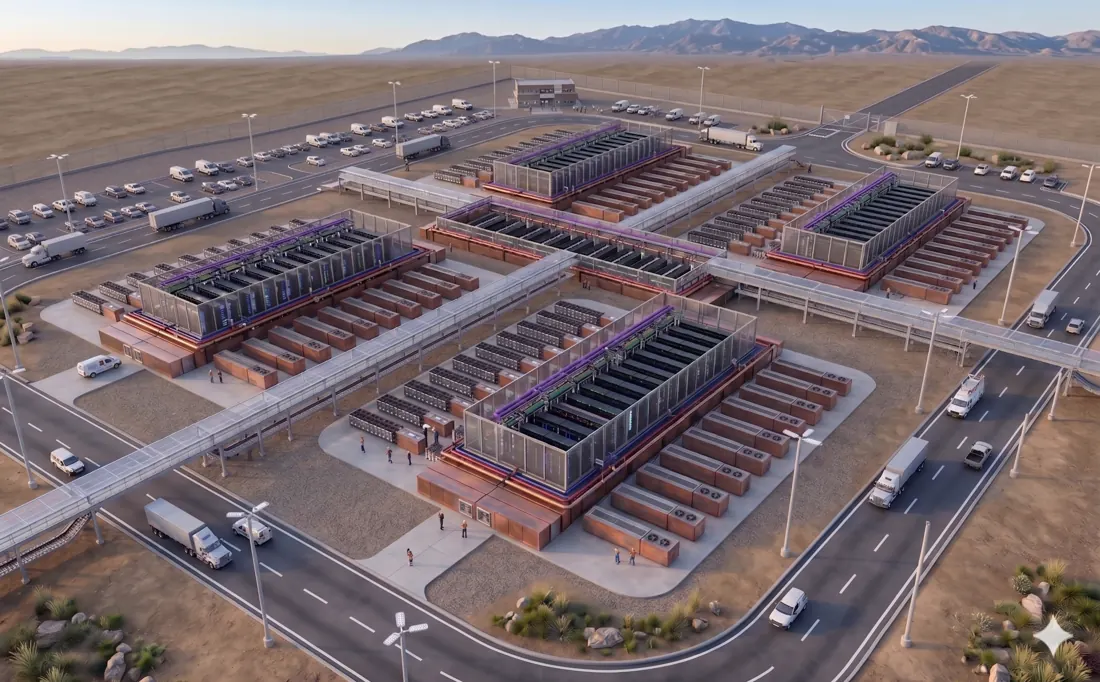
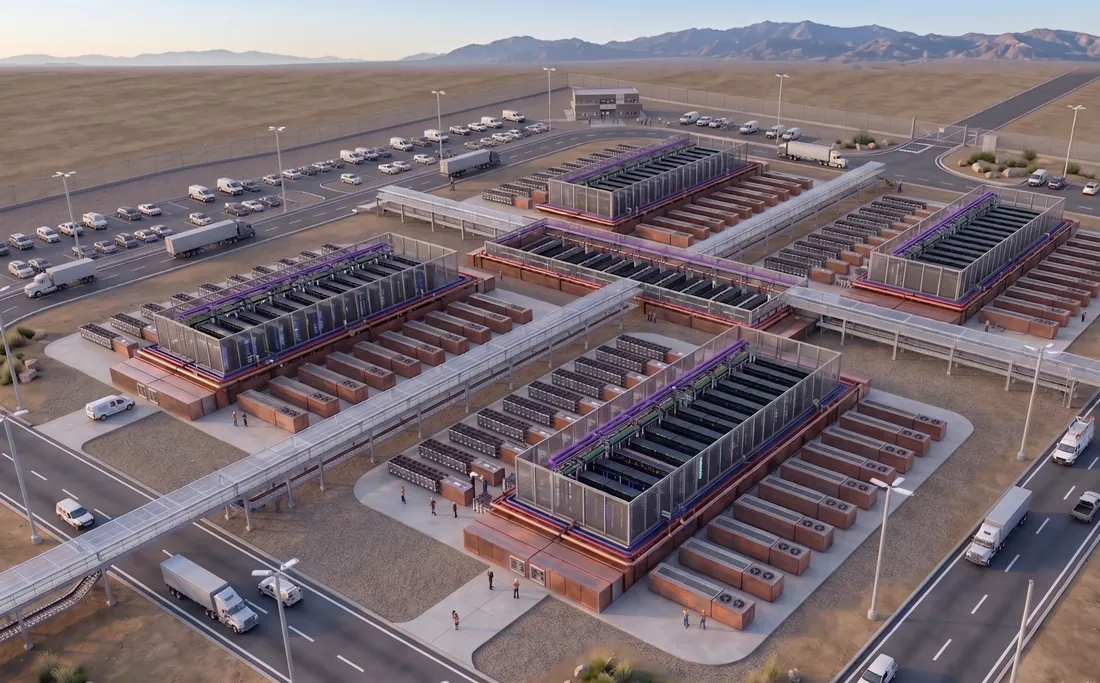
Add files via upload

diff --git a/index.html b/index.html
@@ -4,6 +4,10 @@
 <meta charset="utf-8">
 <meta name="robots" content="noindex, nofollow">
 <meta name="viewport" content="width=device-width, initial-scale=1, viewport-fit=cover">
+<link rel="icon" href="favicon.ico" sizes="any">
+<link rel="icon" type="image/png" sizes="32x32" href="img/favicon-32.png">
+<link rel="apple-touch-icon" href="img/apple-touch-icon.png">
+<meta name="theme-color" content="#07060d">
 <title>Foxconn AI Factory</title>
 <link rel="preconnect" href="https://fonts.googleapis.com">
 <link rel="preconnect" href="https://fonts.gstatic.com" crossorigin>
@@ -32,7 +36,7 @@ img{max-width:100%}
 [hidden]{display:none!important}
 html{scroll-behavior:smooth;scroll-padding-top:110px}
 html{padding:env(safe-area-inset-top,0px) 0 env(safe-area-inset-bottom,0px)}
-body{margin:0;background:var(--bg);color:var(--fg);font-family:var(--f-body);font-size:16px;line-height:1.55;font-weight:400;-webkit-font-smoothing:antialiased;overflow-x:hidden}
+body{margin:0;background:var(--bg);color:var(--fg);font-family:var(--f-body);font-size:18px;line-height:1.55;font-weight:400;-webkit-font-smoothing:antialiased;overflow-x:hidden}
 body::before{content:"";position:fixed;inset:0 0 auto;height:env(safe-area-inset-top,0px);z-index:30;background:var(--bg)}
 a{color:inherit}
 .wrap{max-width:1200px;margin:0 auto;padding-left:max(16px,env(safe-area-inset-left,0px));padding-right:max(16px,env(safe-area-inset-right,0px))}
@@ -61,35 +65,35 @@ p{margin:0}
 .hero .wrap{position:relative}
 .eyebrow{font-size:12px;letter-spacing:.2em;text-transform:uppercase;color:var(--cyan)}
 .hero h1{font-family:var(--f-display);font-weight:400;font-size:clamp(30px,8.6vw,52px);line-height:1.12;letter-spacing:.01em;margin-top:4px;text-shadow:0 0 36px rgba(161,131,231,.35)}
-.hero .lede{color:var(--muted);font-size:17px;margin-top:16px;max-width:34em}
+.hero .lede{color:var(--muted);font-size:19px;margin-top:16px;max-width:34em}
 .hero-cta{display:flex;flex-wrap:wrap;gap:10px;margin-top:24px}
 .proof{display:grid;grid-template-columns:1fr 1fr;gap:1px;margin-top:32px;background:var(--line);border:1px solid var(--line);border-radius:var(--r);overflow:hidden}
 .proof div{background:rgba(16,14,28,.92);padding:16px 14px;min-width:0}
 .proof b{display:block;font-family:var(--f-display);font-weight:400;font-size:22px;line-height:1.15;font-variant-numeric:tabular-nums}
-.proof span{display:block;color:var(--muted);font-size:13px;line-height:1.35;margin-top:6px}
+.proof span{display:block;color:var(--muted);font-size:15px;line-height:1.35;margin-top:6px}
 .proof .wide{grid-column:1/-1;display:flex;align-items:center;gap:12px}
 .proof .wide b{font-size:15px;letter-spacing:.04em}
 .nv-logo{flex:none;display:block;height:20px;width:auto}
 .proof .wide{padding-block:18px}
 .hero-img{margin:22px 0 0;border-radius:var(--r);overflow:hidden;border:1px solid var(--line);position:relative}
 .hero-img img{display:block;width:100%;height:auto}
-.hero-img figcaption{position:absolute;left:0;right:0;bottom:0;padding:24px 14px 10px;font-size:12px;color:var(--fg);background:linear-gradient(transparent,rgba(7,6,13,.9))}
+.hero-img figcaption{position:absolute;left:0;right:0;bottom:0;padding:24px 14px 10px;font-size:13px;color:var(--fg);background:linear-gradient(transparent,rgba(7,6,13,.9))}
 
 /* Sections */
 section.ch{padding-block:56px 8px}
 .ch-head{display:grid;gap:10px;margin-bottom:24px}
-.ch-head .k{font-size:12px;letter-spacing:.2em;text-transform:uppercase;color:var(--lav)}
+.ch-head .k{font-size:13px;letter-spacing:.2em;text-transform:uppercase;color:var(--lav)}
 .ch-head h2{font-family:var(--f-display);font-weight:400;font-size:clamp(22px,6vw,32px);line-height:1.2}
 .ch-head p{color:var(--muted)}
 
 /* Why */
 .why{display:grid;gap:12px}
 .why article{background:var(--surface);border:1px solid var(--line);border-radius:var(--r);padding:18px;display:grid;gap:10px}
-.why .pain{font-size:12px;letter-spacing:.12em;text-transform:uppercase;color:var(--muted)}
+.why .pain{font-size:13px;letter-spacing:.12em;text-transform:uppercase;color:var(--muted)}
 .why .pain s{text-decoration:none;color:var(--fg)}
 .why h3{font-size:20px;font-weight:600;display:flex;align-items:center;gap:10px}
 .why h3 i{width:8px;height:8px;border-radius:50%;background:var(--cyan);box-shadow:0 0 12px var(--cyan);flex:none}
-.why p{color:var(--muted);font-size:15px}
+.why p{color:var(--muted);font-size:17px}
 
 /* Process */
 .steps{list-style:none;margin:0;padding:0;position:relative}
@@ -99,27 +103,27 @@ section.ch{padding-block:56px 8px}
 .steps details{background:var(--surface);border:1px solid var(--line);border-radius:var(--r)}
 .steps summary{list-style:none;cursor:pointer;padding:14px 16px;display:flex;justify-content:space-between;align-items:center;gap:10px}
 .steps summary::-webkit-details-marker{display:none}
-.steps summary b{font-weight:600;font-size:17px}
-.steps summary span{display:block;color:var(--muted);font-size:13px}
+.steps summary b{font-weight:600;font-size:18px}
+.steps summary span{display:block;color:var(--muted);font-size:15px}
 .steps summary::after{content:"+";font:300 22px/1 var(--f-body);color:var(--lav);transition:transform .2s}
 .steps details[open] summary::after{transform:rotate(45deg)}
 .steps ul{margin:0;padding:0 16px 14px 16px;list-style:none;display:flex;flex-direction:column;align-items:flex-start;gap:6px}
-.chip{display:inline-flex;align-items:center;justify-content:center;text-align:left;line-height:1.3;font-size:13px;padding:5px 10px;border-radius:14px;background:var(--surface-2);border:1px solid var(--line);color:var(--fg)}
+.chip{display:inline-flex;align-items:center;justify-content:center;text-align:left;line-height:1.3;font-size:15px;padding:5px 11px;border-radius:15px;background:var(--surface-2);border:1px solid var(--line);color:var(--fg)}
 
 /* Build types */
 .chart{background:var(--surface);border:1px solid var(--line);border-radius:var(--r);padding:16px 14px 10px}
-.chart h3{font-size:14px;font-weight:500;color:var(--muted);margin-bottom:6px}
+.chart h3{font-size:16px;font-weight:500;color:var(--muted);margin-bottom:6px}
 /* Lead-time chart: 0–48 months maps to 0–100% of each track */
 .ltc{display:grid;padding:4px 14px 2px 0}
 .ltc-row{display:grid;grid-template-columns:80px minmax(0,1fr);align-items:center}
-.ltc-lbl{font-size:13px;font-weight:500;color:var(--fg)}
+.ltc-lbl{font-size:15px;font-weight:500;color:var(--fg)}
 .ltc-track{position:relative;height:36px;background:linear-gradient(90deg,var(--line) 1px,transparent 1px) 0 0/25% 100% repeat-x;box-shadow:inset -1px 0 0 var(--line)}
 .ltc-bar{position:absolute;top:8px;bottom:8px;left:calc(var(--s) / 48 * 100%);width:calc((var(--e) - var(--s)) / 48 * 100%);border-radius:10px;background:var(--grad)}
 .ltc-bar.slow{background:var(--muted);opacity:.55}
-.ltc-val{position:absolute;top:50%;transform:translateY(-50%);left:calc(var(--e) / 48 * 100% + 8px);font-size:12px;font-weight:600;color:var(--fg);white-space:nowrap;font-variant-numeric:tabular-nums}
+.ltc-val{position:absolute;top:50%;transform:translateY(-50%);left:calc(var(--e) / 48 * 100% + 8px);font-size:14px;font-weight:600;color:var(--fg);white-space:nowrap;font-variant-numeric:tabular-nums}
 .ltc-val.before{left:auto;right:calc(100% - var(--s) / 48 * 100% + 8px)}
 .ltc-axis .ltc-track{height:22px;background:none;box-shadow:none}
-.ltc-axis .ltc-track span{position:absolute;top:4px;left:calc(var(--t) / 48 * 100%);transform:translateX(-50%);font-size:11px;color:var(--muted);font-variant-numeric:tabular-nums}
+.ltc-axis .ltc-track span{position:absolute;top:4px;left:calc(var(--t) / 48 * 100%);transform:translateX(-50%);font-size:13px;color:var(--muted);font-variant-numeric:tabular-nums}
 .tabs{position:relative;display:grid;grid-template-columns:repeat(3,1fr);gap:0;margin-top:16px;background:#05040a;border:1px solid var(--line);border-radius:999px;padding:4px;box-shadow:inset 0 2px 6px rgba(0,0,0,.7)}
 .tab-ind{position:absolute;top:4px;bottom:4px;left:4px;width:calc((100% - 8px) / 3);border-radius:999px;background:var(--grad);box-shadow:0 0 18px rgba(105,227,254,.35);transform:translateX(calc(var(--i,0) * 100%));transition:transform .32s cubic-bezier(.3,.7,.2,1)}
 .tabs button{position:relative;z-index:1;border:0;background:transparent;color:var(--muted);font:600 13px/1 var(--f-body);letter-spacing:.06em;padding:11px 4px;border-radius:999px;cursor:pointer;transition:color .25s}
@@ -130,10 +134,10 @@ section.ch{padding-block:56px 8px}
 .panel .pic img{max-height:190px;width:auto;object-fit:contain}
 .panel .body{padding:16px 18px 18px;display:grid;gap:10px}
 .panel h3{font-size:20px;font-weight:600}
-.panel .lt{font-family:var(--f-display);font-size:13px;color:var(--cyan)}
-.panel .lt small{font-family:var(--f-body);color:var(--muted);font-size:12px;margin-left:6px}
+.panel .lt{font-family:var(--f-display);font-size:14px;color:var(--cyan)}
+.panel .lt small{font-family:var(--f-body);color:var(--muted);font-size:14px;margin-left:6px}
 .ticks{list-style:none;margin:0;padding:0;display:grid;gap:6px}
-.ticks li{position:relative;padding-left:20px;color:var(--muted);font-size:15px}
+.ticks li{position:relative;padding-left:20px;color:var(--muted);font-size:17px}
 .ticks li::before{content:"";position:absolute;left:2px;top:.62em;width:8px;height:2px;background:var(--cyan)}
 
 /* Vertical integration */
@@ -141,8 +145,8 @@ section.ch{padding-block:56px 8px}
 .rung{background:var(--surface);border:1px solid var(--line);border-radius:var(--r);padding:16px;display:grid;gap:10px;position:relative}
 .rung + .rung::before{content:"";position:absolute;left:28px;top:-11px;width:2px;height:10px;background:var(--lav)}
 .rung header{display:flex;justify-content:space-between;align-items:baseline;gap:10px}
-.rung h3{font-size:17px;font-weight:600}
-.rung .lv{font-family:var(--f-display);font-size:11px;color:var(--lav);white-space:nowrap}
+.rung h3{font-size:19px;font-weight:600}
+.rung .lv{font-family:var(--f-display);font-size:12px;color:var(--lav);white-space:nowrap}
 .rung.peak{background:linear-gradient(140deg,rgba(105,227,254,.12),rgba(90,82,227,.18));border-color:rgba(105,227,254,.35)}
 .chips{display:flex;flex-wrap:wrap;gap:6px}
 
@@ -151,13 +155,13 @@ section.ch{padding-block:56px 8px}
 .yr{background:var(--surface);border:1px solid var(--line);border-radius:var(--r);padding:16px;display:grid;gap:12px}
 .yr header{display:flex;align-items:baseline;justify-content:space-between;gap:10px}
 .yr .y{font-family:var(--f-display);font-size:24px}
-.yr .gen{font-size:13px;color:var(--muted);text-align:right}
+.yr .gen{font-size:15px;color:var(--muted);text-align:right}
 .metrics{display:grid;grid-template-columns:repeat(2,minmax(0,1fr));gap:8px}
-.road-note{margin-top:12px;font-size:13px;color:var(--muted)}
+.road-note{margin-top:12px;font-size:15px;color:var(--muted)}
 .metrics div{background:var(--surface-2);border-radius:10px;padding:10px;min-width:0}
-.metrics b{display:block;font-family:var(--f-display);font-weight:400;font-size:15px;font-variant-numeric:tabular-nums;white-space:nowrap}
-.metrics span{display:block;font-size:11px;color:var(--muted);letter-spacing:.06em;text-transform:uppercase;margin-top:4px}
-.yr .pw{font-size:14px;color:var(--muted)}
+.metrics b{display:block;font-family:var(--f-display);font-weight:400;font-size:16px;font-variant-numeric:tabular-nums;white-space:nowrap}
+.metrics span{display:block;font-size:12px;color:var(--muted);letter-spacing:.06em;text-transform:uppercase;margin-top:4px}
+.yr .pw{font-size:16px;color:var(--muted)}
 .yr .pw b{color:var(--fg);font-weight:600}
 .yr.goal{border-color:rgba(105,227,254,.45);box-shadow:0 0 0 1px rgba(105,227,254,.12),0 0 40px rgba(105,227,254,.08)}
 .yr.goal .y{background:var(--grad);-webkit-background-clip:text;background-clip:text;color:transparent}
@@ -169,8 +173,8 @@ section.ch{padding-block:56px 8px}
 .loop div{display:grid;grid-template-columns:auto 1fr;gap:4px 12px;align-items:start;background:var(--surface);border:1px solid var(--line);border-radius:12px;padding:12px 14px}
 .loop i{grid-row:span 2;font-style:normal;font-family:var(--f-display);font-size:11px;color:var(--cyan);padding-top:4px}
 .loop b{font-weight:600}
-.loop span{color:var(--muted);font-size:14px}
-.loop-note{margin-top:10px;font-size:13px;color:var(--muted);text-align:center}
+.loop span{color:var(--muted);font-size:16px}
+.loop-note{margin-top:10px;font-size:15px;color:var(--muted);text-align:center}
 
 /* Reference designs */
 .ref-pics{display:grid;grid-template-columns:1fr 1fr;gap:8px;margin-bottom:12px}
@@ -178,19 +182,19 @@ section.ch{padding-block:56px 8px}
 .ref-pics img{display:block;width:100%;aspect-ratio:4/3;object-fit:cover}
 .ref-pics figcaption{position:absolute;left:8px;top:8px;font:400 11px/1 var(--f-display);background:rgba(7,6,13,.75);padding:6px 8px;border-radius:6px}
 .tbl-wrap{overflow-x:auto;border:1px solid var(--line);border-radius:var(--r);background:var(--surface)}
-table{width:100%;border-collapse:collapse;font-size:14px;min-width:340px}
+table{width:100%;border-collapse:collapse;font-size:16px;min-width:340px}
 th,td{padding:11px 12px;text-align:left;border-bottom:1px solid var(--line);vertical-align:top}
 tr:last-child td{border-bottom:0}
-thead th{white-space:nowrap;font-family:var(--f-display);font-weight:400;font-size:13px;color:var(--cyan);background:var(--surface-2)}
-tbody th{font-weight:500;color:var(--muted);font-size:13px;width:32%}
+thead th{white-space:nowrap;font-family:var(--f-display);font-weight:400;font-size:14px;color:var(--cyan);background:var(--surface-2)}
+tbody th{font-weight:500;color:var(--muted);font-size:15px;width:32%}
 td{font-variant-numeric:tabular-nums}
 .shared{margin-top:10px;display:flex;flex-wrap:wrap;gap:6px}
 
 /* Partners */
 .partners{display:grid;grid-template-columns:1fr 1fr;gap:8px}
 .partners div{background:var(--surface);border:1px solid var(--line);border-radius:12px;padding:14px;min-width:0}
-.partners h3{font-size:12px;letter-spacing:.16em;text-transform:uppercase;color:var(--lav);font-weight:600;margin-bottom:8px}
-.partners p{font-size:14px;color:var(--fg);line-height:1.7}
+.partners h3{font-size:13px;letter-spacing:.16em;text-transform:uppercase;color:var(--lav);font-weight:600;margin-bottom:8px}
+.partners p{font-size:16px;color:var(--fg);line-height:1.7}
 .note{margin-top:10px;font-size:12px;color:var(--muted);border:1px dashed var(--line);border-radius:10px;padding:10px 12px}
 
 /* Contact */
@@ -198,13 +202,13 @@ td{font-variant-numeric:tabular-nums}
 .contact h2{font-family:var(--f-display);font-weight:400;font-size:clamp(22px,6vw,30px);line-height:1.2}
 .contact-intro p{color:var(--muted);margin-top:10px}
 form{display:grid;gap:12px;margin-top:20px}
-label{display:grid;gap:6px;font-size:13px;color:var(--muted)}
+label{display:grid;gap:6px;font-size:15px;color:var(--muted)}
 .opt{color:var(--muted);opacity:.75}
 textarea{resize:vertical;min-height:96px;line-height:1.5}
 input,select,textarea{font:400 16px var(--f-body);color:var(--fg);background:rgba(7,6,13,.6);border:1px solid var(--line);border-radius:10px;padding:12px;width:100%}
 input:focus,select:focus,textarea:focus{outline:none;border-color:var(--cyan)}
-.form-msg{font-size:14px;color:var(--cyan);min-height:1.4em}
-footer{padding-block:40px 110px;color:var(--muted);font-size:12px;display:grid;gap:6px;text-align:center}
+.form-msg{font-size:16px;color:var(--cyan);min-height:1.4em}
+footer{padding-block:40px 110px;color:var(--muted);font-size:13px;display:grid;gap:6px;text-align:center}
 footer .inf{font-family:var(--f-display);font-size:13px;color:var(--fg);letter-spacing:.1em}
 .draft{display:inline-block;margin:0 auto;font-size:11px;letter-spacing:.14em;text-transform:uppercase;color:var(--lav);border:1px solid var(--line);border-radius:999px;padding:4px 10px}
 
@@ -212,6 +216,12 @@ footer .inf{font-family:var(--f-display);font-size:13px;color:var(--fg);letter-s
 .float{position:fixed;left:0;right:0;bottom:0;z-index:25;padding:10px max(16px,env(safe-area-inset-right,0px)) calc(12px + env(safe-area-inset-bottom,0px)) max(16px,env(safe-area-inset-left,0px));background:linear-gradient(transparent,rgba(7,6,13,.95) 40%);display:flex;justify-content:center;transition:transform .3s, opacity .3s}
 .float .btn{width:100%;max-width:420px;padding:14px 18px;font-size:15px}
 .float.hide{transform:translateY(110%);opacity:0;pointer-events:none}
+
+@media (max-width:639px){
+  table{font-size:15px;min-width:300px}
+  th,td{padding:10px 8px}
+  tbody th{font-size:14px;width:30%}
+}
 
 /* Tablet: 640px and up */
 @media (min-width:640px){
@@ -252,7 +262,7 @@ footer .inf{font-family:var(--f-display);font-size:13px;color:var(--fg);letter-s
   .hero h1{font-size:clamp(44px,4.4vw,64px);margin:0 auto}
   .hero h1 br{display:none}
   .hero h1 .grad-text{display:block;margin-bottom:.62em}
-  .hero .lede{margin:28px auto 0;max-width:40em;font-size:19px}
+  .hero .lede{margin:28px auto 0;max-width:40em;font-size:21px}
   .hero-cta{justify-content:center;margin-top:36px}
   .hero-img{display:none}
   .proof{grid-template-columns:1.5fr repeat(4,1fr);margin-top:96px;text-align:left}
@@ -268,7 +278,7 @@ footer .inf{font-family:var(--f-display);font-size:13px;color:var(--fg);letter-s
 
   .build-top{margin-bottom:16px}
   .ltc-row{grid-template-columns:110px minmax(0,1fr)}
-  .ltc-lbl{font-size:14px}
+  .ltc-lbl{font-size:16px}
   .tabs{display:none}
   .panels{display:grid;grid-template-columns:repeat(3,minmax(0,1fr));gap:16px}
   .panels .panel[hidden]{display:block!important}
